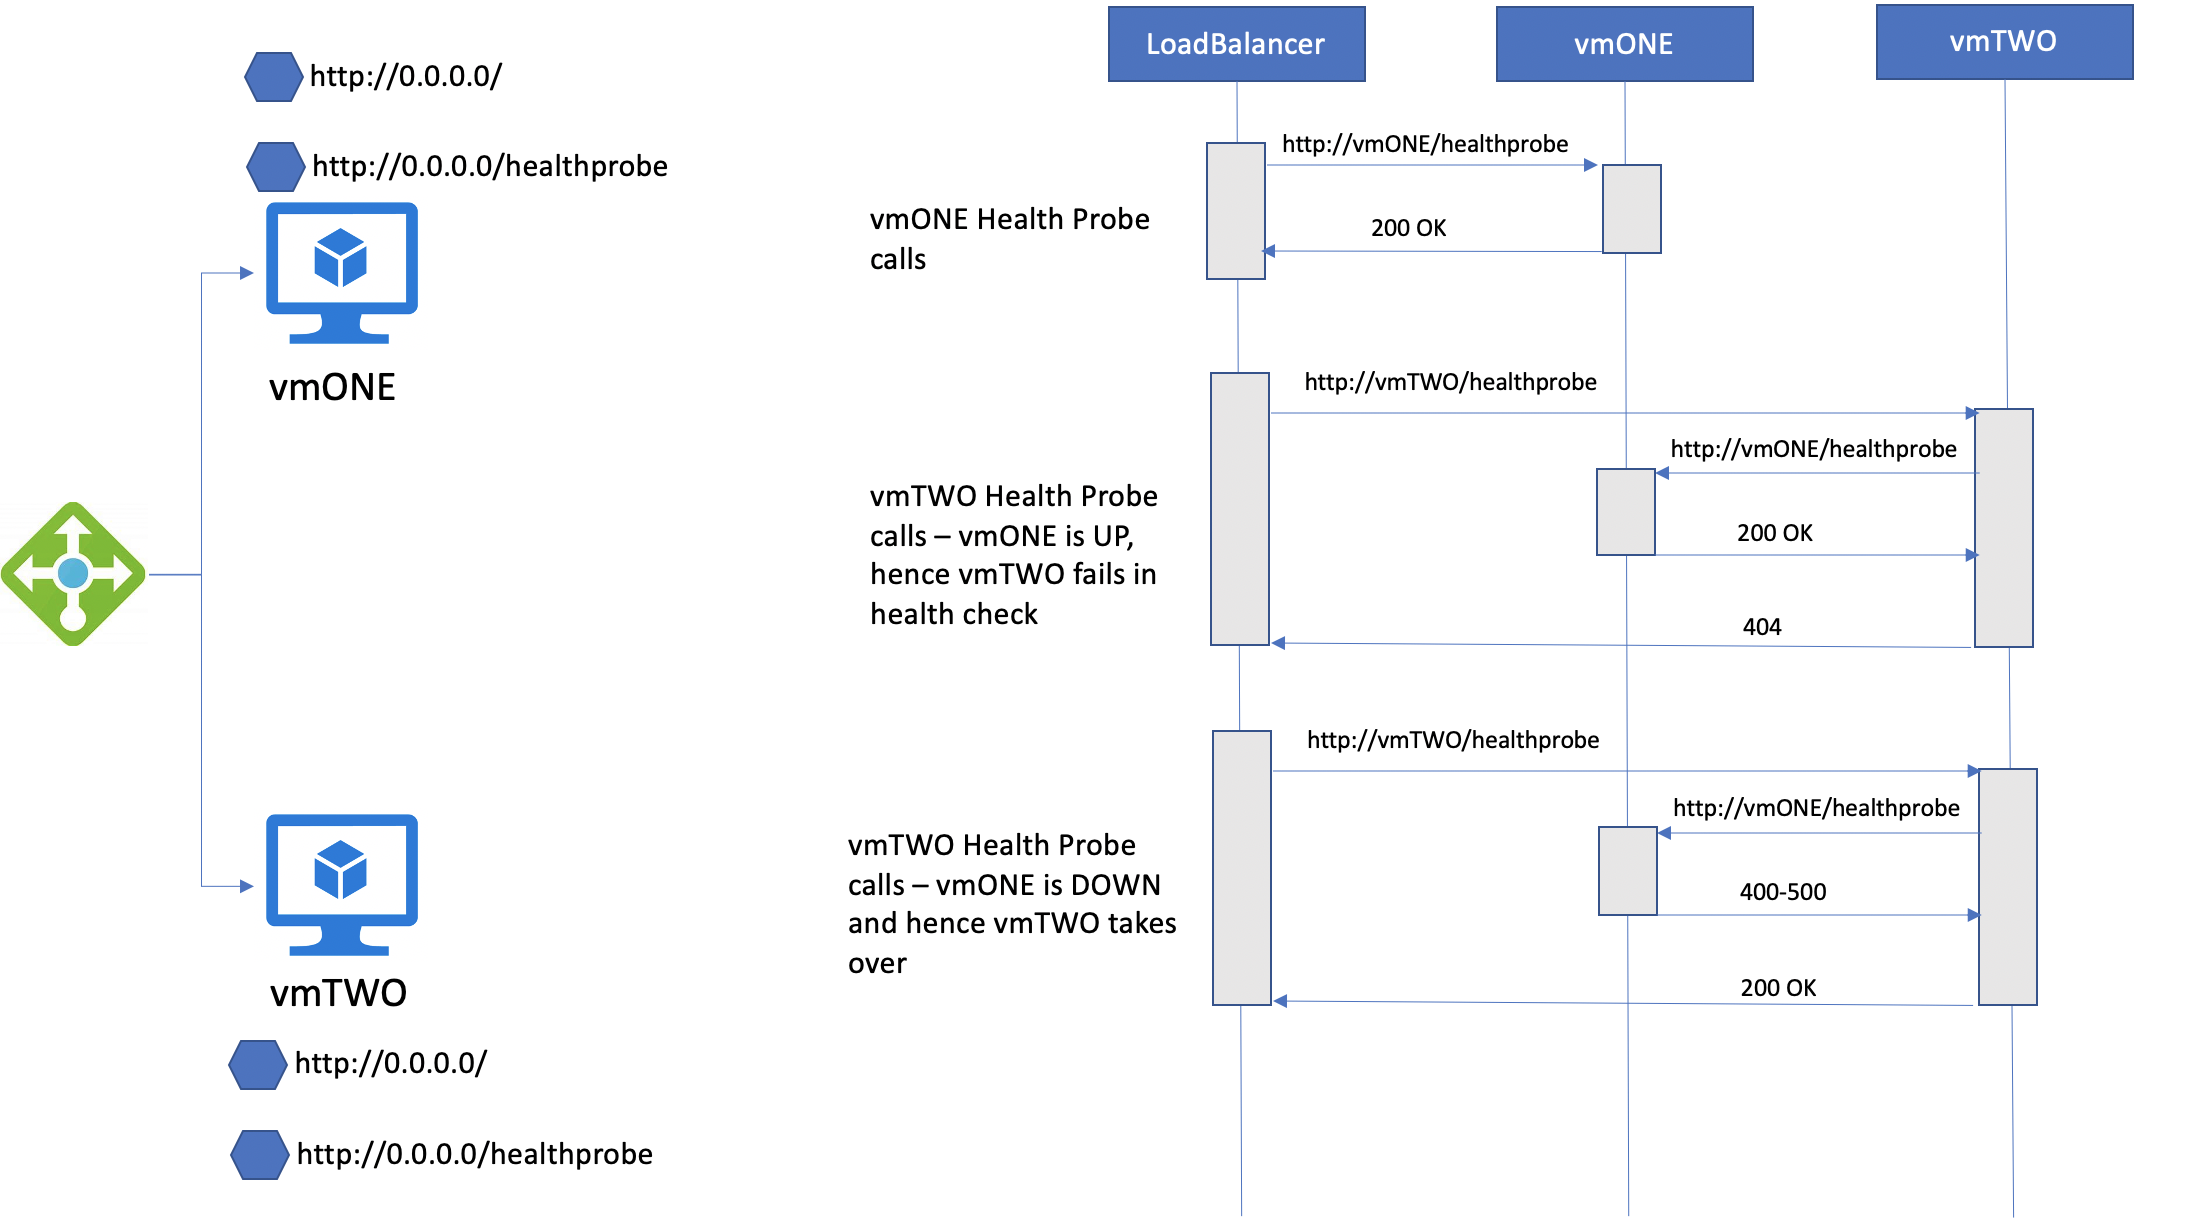
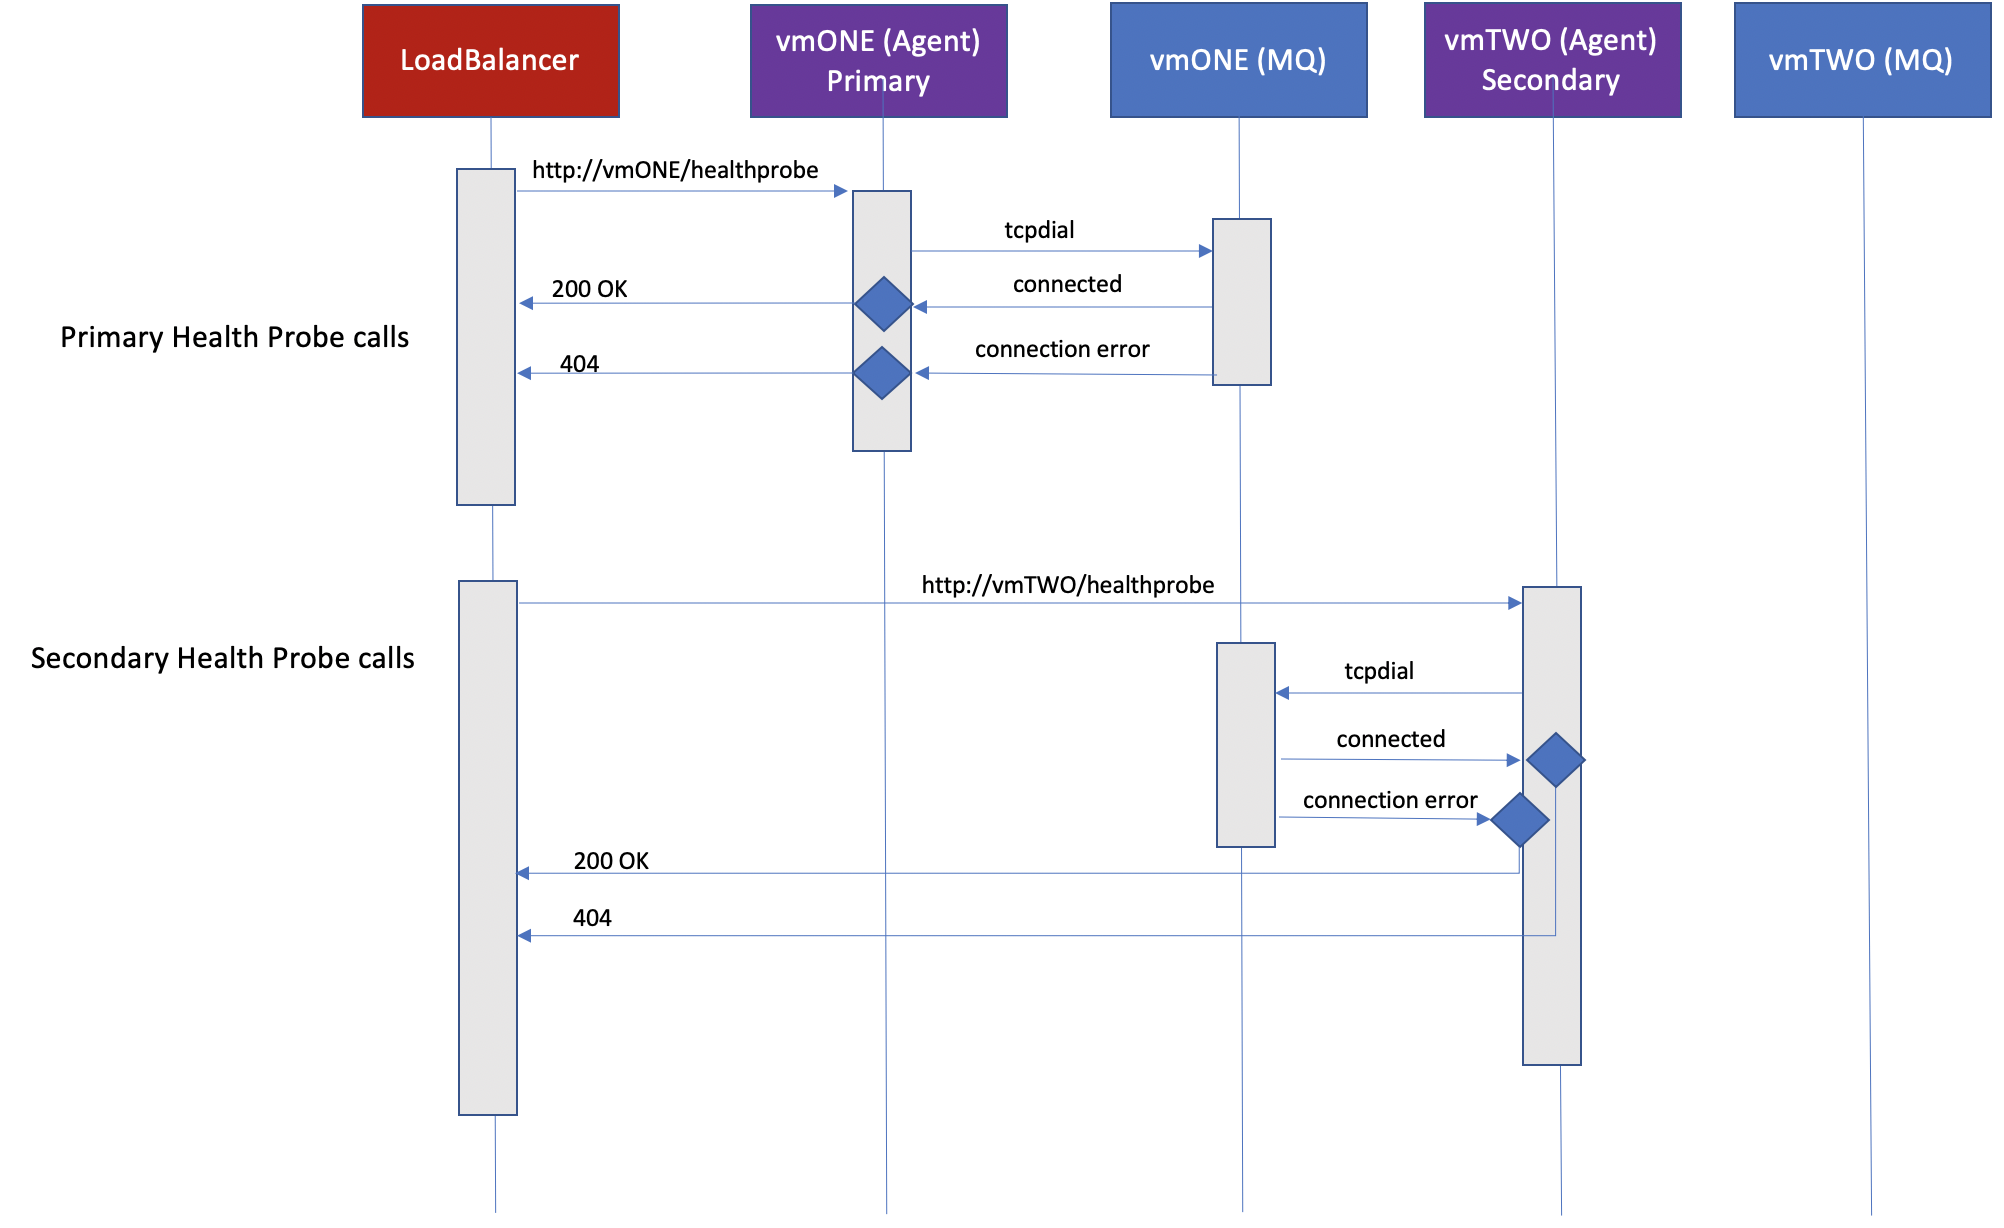
TCP Monitor

diff --git a/main.go b/main.go
@@ -39,12 +39,9 @@ func init() {
 	//flag.StringVar(&httpprobe, "httpprobe", "http://localhost:8080/healthprobe", "specify http endpoint for primary agent: http://x.x.x.x:port/healthprobe")
 	flag.StringVar(&agentport, "agentport", "8080", "specify the port for agent to run")
 	flag.Parse()
-
 	//Convert to lowercase....
 	role = strings.ToLower(role)
-	agentport = fmt.Sprintf(":%s",agentport)
-
-	fmt.Printf("role=%s tcpprobe=%s \nagentport=%s\n", role, tcpprobe, agentport)
+	agentport = fmt.Sprintf(":%s", agentport)
 
 }
 
@@ -56,7 +53,7 @@ func main() {
 		hostName = "UnknownHost"
 	}
 
-	fmt.Printf("%s - %s Starting Server...\n", time.Now().String(), hostName)
+	fmt.Printf("%s - %s Starting %s Server...\n", time.Now().String(), role, hostName)
 
 	router := mux.NewRouter()
 	router.HandleFunc("/", GetRootEndpoint).Methods("GET")
@@ -84,7 +81,6 @@ func GetHPEndpoint(w http.ResponseWriter, req *http.Request) {
 	var rCode int
 
 	tcpStatus = GetHeartBeatTCP(tcpprobe, 10)
-
 	if role == "primary" {
 		//This block is executed on the Primary Server
 		//Check MQ
@@ -96,8 +92,8 @@ func GetHPEndpoint(w http.ResponseWriter, req *http.Request) {
 			rCode = 200
 		}
 	} else { //Not Primary
+		fmt.Printf("Executing Secondary\n")
 		//Check Primary MQ Status
-		tcpStatus = GetHeartBeatTCP(tcpprobe, 10)
 		if tcpStatus == false {
 			//Failover to Secondary, return 200
 			fmt.Printf("%s - Failingover to %s\n", time.Now().String(), hostName)
@@ -117,7 +113,7 @@ func GetRootEndpoint(w http.ResponseWriter, req *http.Request) {
 	w.WriteHeader(http.StatusOK)
 	w.Header().Set("Content-Type", "application/json")
 	fmt.Fprintf(w, "{%v: %v}\n", hostName, http.StatusOK)
-	fmt.Printf("%s - %s:ROOT Success\n", time.Now().String(), hostName)
+	fmt.Printf("%s - %s:%s Success\n", time.Now().String(), role, hostName)
 }
 
 //GetHeartBeatHTTP gets a Root Endpoint
@@ -141,8 +137,12 @@ func GetHeartBeatHTTP() int {
 //GetHeartBeatTCP gets a Root Endpoint
 func GetHeartBeatTCP(host string, timeoutSecs int) bool {
 	conn, err := net.DialTimeout("tcp", host, time.Duration(timeoutSecs)*time.Second)
-	defer conn.Close()
+	if err != nil {
+		fmt.Printf("%s - %s:tcpprobe conn error: %s\n", time.Now().String(), hostName, host)
+		return false
+	}
 
+	defer conn.Close()
 	if err, ok := err.(*net.OpError); ok && err.Timeout() {
 		fmt.Printf("%s - %s:TCP Timeout: %s\n", time.Now().String(), hostName, host)
 		fmt.Printf("Timeout error: %s\n", err)

diff --git a/README.md b/README.md
@@ -2,6 +2,10 @@
 MythicalHP
 This is a simple introduction to enabling Primary & Secondary with Azure Standard Load Balancer. A SLB with 2 VMs, will need to support Active Passive mode. When the Primary server goes down, the Secondary will need to be Active. When Primary comes back up, Secondary will need to go passive
 
+High Level Architecture Diagram
+![Image description](./MythicalHPLB.png)
+
+Call Sequence between Primary and Secondary
 ![Image description](./MythicalHP.png)
 
 
@@ -12,7 +16,9 @@ This is a simple introduction to enabling Primary & Secondary with Azure Standar
 * go get -u github.com/gorilla/mux
 * git clone https://github.com/jaypaddy/MythicalHP.git
 * cd MythicalHP
-* [PRIMARY] sudo go run . 200 http://localhost/healthprobe
-* [SECONDARY] sudo go run . 400 http://<PRIMARYIP>/healthprobe
+* [PRIMARY] sudo go run . -role=primary -tcpprobe=primarymq -agentport=80
+* [SECONDARY] sudo go run . -role=secondary -tcpprobe=primarymq -agentport=80
 
-
+role = this is the role of the server where the agent is running. Assumption is that the agent will run on the same server as the primary service i.e. the workload
+tcpprobe = this will be tcp service that needs to be assessed for health
+agentport = the port at which the agent will run. this should match with the port used on the Load Balancer Healthprobe. On the loadbalancer it will be specified as http://<server>:<agentport>/healthprobe
